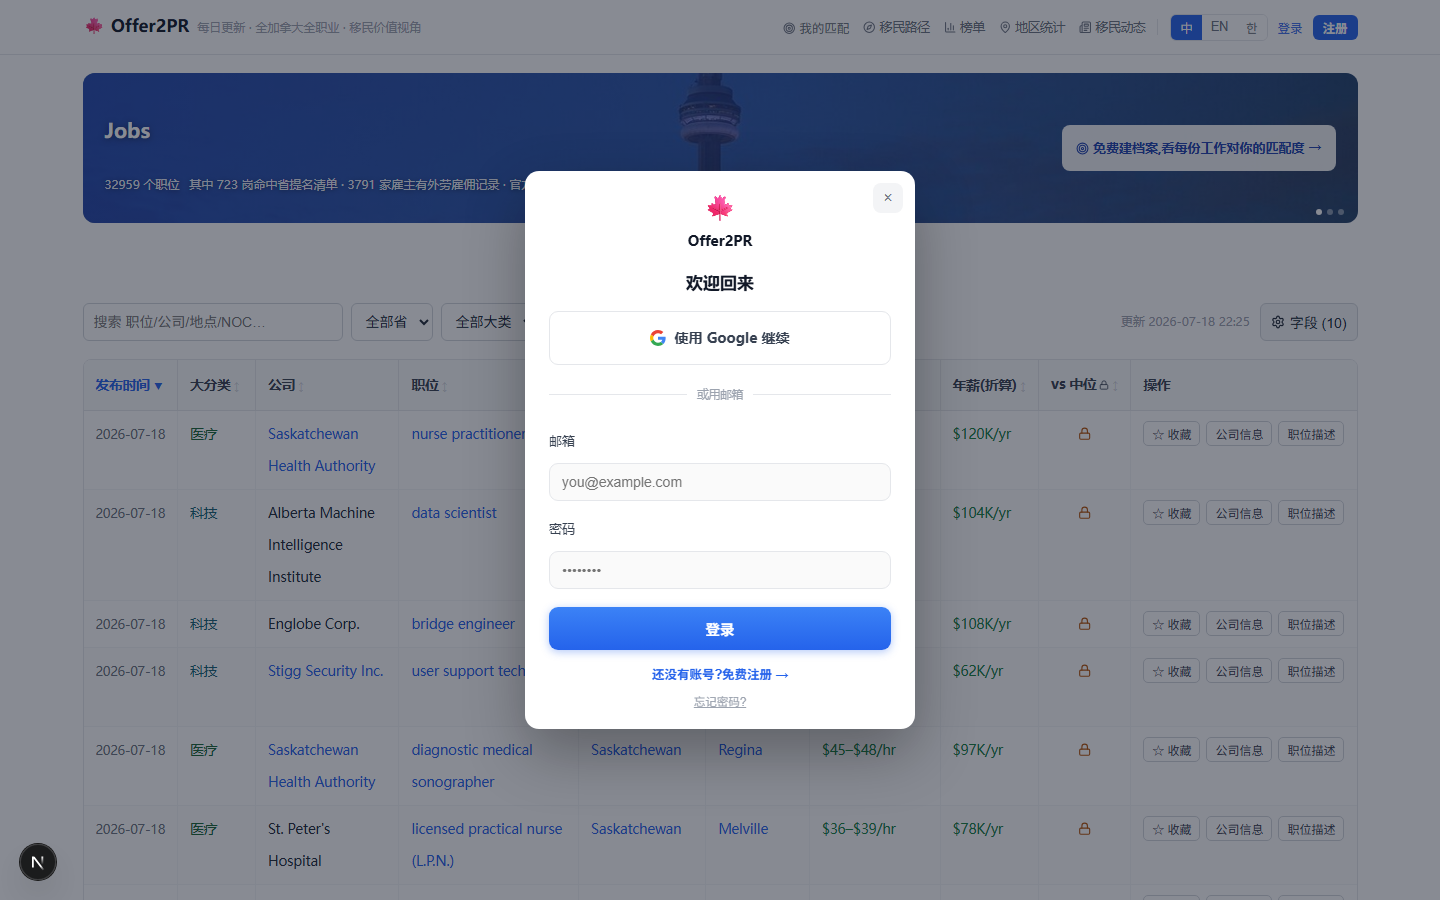
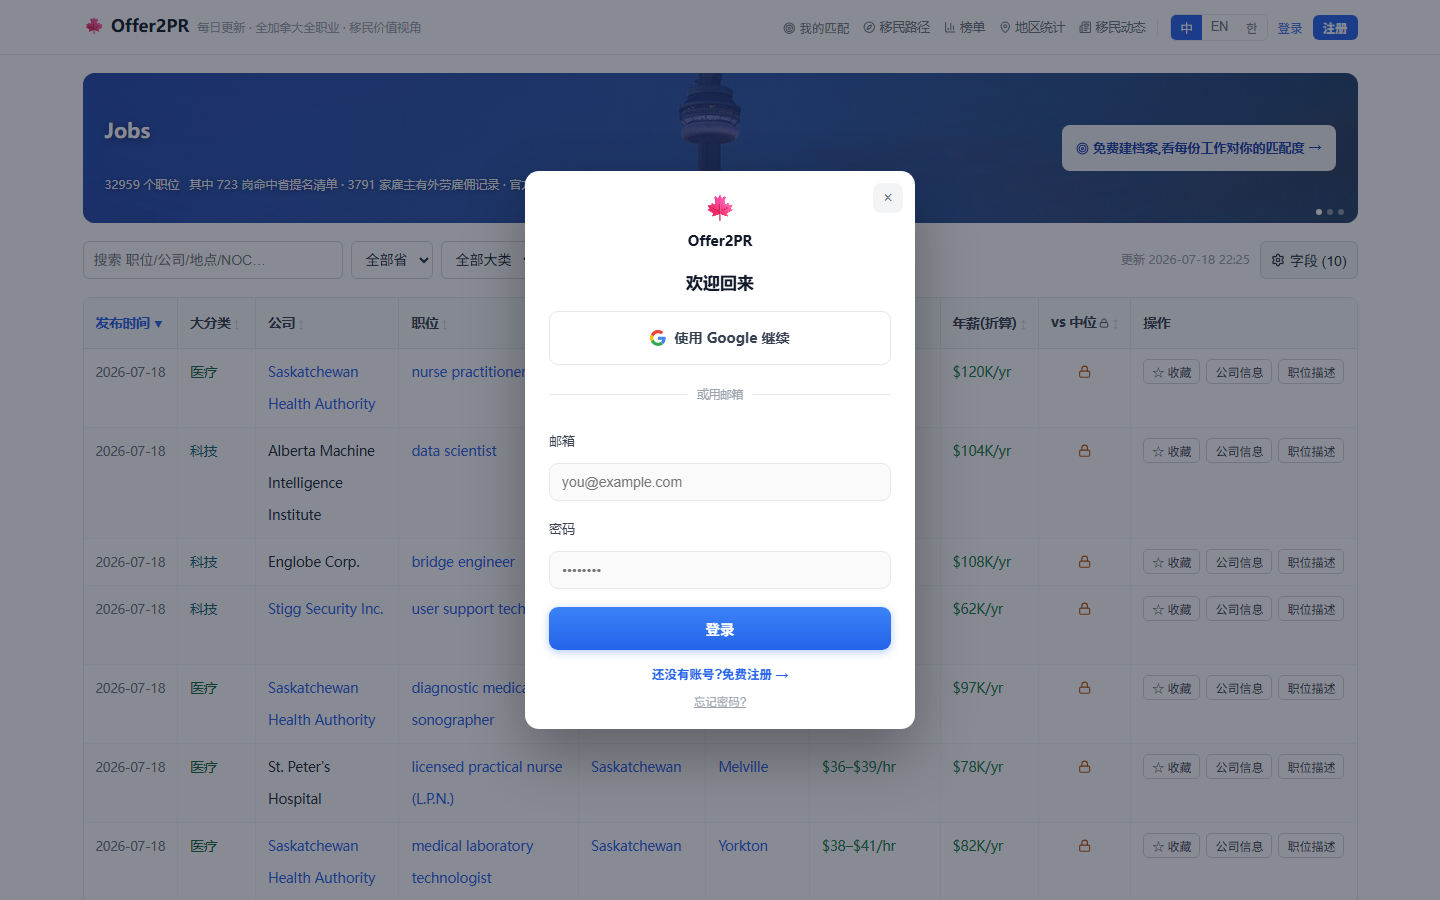
docs(E11-03): 全环闭合——Frank 生产实弹通过;Docker ARG 坑记档成惯例(client 用 NEXT_PUBLIC 必须登记 Dockerfile)

diff --git a/docs/implementation/E11-用户身份与分型引导/03_Google登录.md b/docs/implementation/E11-用户身份与分型引导/03_Google登录.md
@@ -30,7 +30,11 @@ GCP:项目 offer2pr / OAuth client `offer2pr-web`(Web);redirect URIs=生产+loca
 
 ## 5 · 验证
 - 本地烟测(2026-07-19,dev):①/api/auth/google 302→accounts.google.com,client_id/redirect_uri/scope/state 全对+state cookie 落 ✓;②callback 缺 env/参数 → 302 oauth=fail ✓;③登录框 Google 钮 env 门控点亮 ✓(图 54-验收-登录-google钮.png)。build 过。
-- **生产实弹(Frank,待办)**:Render 加两 env(见 §4)→ 自动重部署 → 点「使用 Google 继续」走完同意屏 → 回站已登录、头像/昵称带回;再点一次=老用户直进。若撞 redirect_uri_mismatch,等 GCP 传播(5 分钟~数小时)重试。
+- **生产实弹 ✅(2026-07-19 晨,Frank 亲测)**:「可以登录了」——同意屏→回站登录态全链通。
+- **途中坑(重要,已修 70f3c97)**:env 填了按钮不亮——**Render 的 Docker 构建只把 env 传给 Dockerfile 里
+  声明了 ARG 的变量**;NEXT_PUBLIC_* 是 next build 编译期烤进 client 组件的,没 ARG=构建期拿不到=静默回退值
+  (服务端路由却通,因为运行时 env 在——极具迷惑性)。修=builder 段登记 ARG+ENV 四件
+  (GOOGLE_CLIENT_ID/PRICE_DISPLAY/SITE_URL/SUPPORT_EMAIL)。**以后新增 client 用的 NEXT_PUBLIC 变量必须同步登记 Dockerfile**。
 
 ## 6 · 遗留
 - **微信登录(E11-06)= 办不了,搁置**(2026-07-19 Frank:「我在加拿大没法办」)——微信开放平台网页登录

diff --git a/STATUS.md b/STATUS.md
@@ -13,7 +13,7 @@
 > - **深夜再续(2026-07-19 凌晨,Frank 持续在线)**:①**#61 闭环**(榜单导航挪页头下,ddf18c6);②**四连批全闭环(4929a83,生产双证)**:匹配视图排序接通(排序二报根因=fetchMatchPage 无视 sort;免费 cap 先圈后排防枚举绕付费墙)/存量页宽度统一 1320(pathways/rank/stats)/banner 数字块(≤3 真实计数,手机藏)/「我的账户」导航未登录不显示(SiteHeader 登录态上提);③**#54 登录改版视觉批闭环(8ab6398)**:careerbeacon 骨架=大标题价值文案+Google 钮位(NEXT_PUBLIC_GOOGLE_CLIENT_ID 门控,后端 E11-03 实测后配 env 即亮)+或用邮箱分隔+底部切换,邮箱登录回归过。
 > - **E11-03 Google 登录后端已上线(43212a7,凭据当场办齐)**:GCP 项目 offer2pr/OAuth client 建好(redirect=生产+localhost 两条);后端=302 同意屏+callback(email_verified 必真→邮箱查找/创建→**镜像 Payload3.85 login 签发**:sessions+sid+getFieldsToSign/jwtSign 官方导出;老邮箱账号关联不动密码);本地烟测三项过。**Render 两 env Frank 已填,服务端路由生产实测 302 参数全对**;按钮=编译期烤入,等最新构建落地即亮。**剩最后一步:Frank 实弹**(点「使用 Google 继续」走完同意屏→回站已登录;二发验老用户直进)。**E11-06 微信=搁置记档**(个人海外主体无微信开放平台入口;远期口子=加拿大公司海外主体认证;实际缺口小——付费主力在加人群 Google 无障碍)。
 > - **排序性能三刀(Frank「一次 3-4 秒」,基线实测建档登录态 1.7-3.7s)**:①匹配维度进程缓存 10min(根因大头:建档用户每次点排序重拉 pnp-occupations≤5000+ee-categories,0.25CPU 库上 1-2s)+②count/updatedAt 30s 微缓存(换排序 WHERE 不变免全表扫)= 329a407;③**九个索引已建**(Frank 授权「帮我跑一下」,node+pg 直连生产执行 e10-p5-indexes.sql,CONCURRENTLY 各 ~1s 零锁表,pg_indexes 复核九个全在)——E10 P5 收官。**复测(建档登录态,ms)**:年薪 3691→**65**(索引直取)/公司 2322→1038/大分类 1735→1111——3-4 秒档进 1 秒内档。若还要压:broad/company 的 DESC NULLS LAST 与普通 btree 方向不匹配仍走排序,可建方向匹配索引(下轮看需要)。
-> - **Google 按钮未亮之谜(交接)**:服务端路由生产 302 全对(env 运行时在);按钮=NEXT_PUBLIC 编译期烤入 client 组件,当前活着的构建疑似还是 env 之前排队的旧 build(今晚 push 密,Render 逐个建;「新版判定」曾被索引提速假信号骗过)。已挂 40min 长轮询盯;**若队列清完仍不亮 → 查 cms/Dockerfile 无 ARG 声明是否挡了 Render 构建期 env 注入**(加 `ARG/ENV NEXT_PUBLIC_GOOGLE_CLIENT_ID` 即修)。亮了才轮到 Frank 实弹。
+> - **🎉 E11-03 全环闭合(2026-07-19 晨,Frank 实弹「可以登录了」)**:Google 一键登录生产全链通。**按钮不亮之谜破案+修复(70f3c97,重要惯例)**:Render 的 Docker 构建只把 env 传给 Dockerfile 声明了 ARG 的变量——NEXT_PUBLIC_* 编译期烤入 client 组件,无 ARG=静默回退值(服务端路由却通,运行时 env 在,极具迷惑性);修=builder 段 ARG+ENV 四件登记。**惯例:新增 client 用的 NEXT_PUBLIC 变量必须同步登记 cms/Dockerfile**。
 > - **下轮队列(顺延)**:#74-#76(UpgradeModal 换装/页头空白/截图脚本修+banner 后 48 屏重拍)→ #65 余批(账户 Sidebar+弹框头)→ B4 实体名录 → C6 政策时间线;发帖开闸(Frank)。
 >
 > **⚡⚡⚡⚡ 上轮交接(2026-07-18 通宵 session,「移民动态之夜」)——E12-06 全环闭合 + #65 设计系统第一批,细节见 implementation/E12/06 §10(续①~⑦)与记忆 next-session-status**